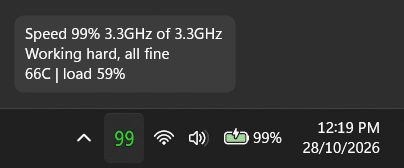
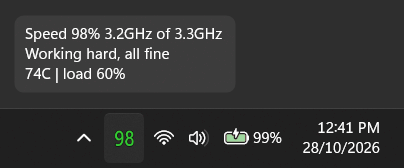
Screenshots: retake the green picture (real loaded reading, 98% / 74C)
Replaces the capture that read 66C. Menu, hero and listing images follow.
No exe change: dist/HeatTray.exe is the same file as v2.2.

Claude-Session: https://claude.ai/code/session_01SGbDh1JUVSHN9EJvkUQFny

diff --git a/store/make-hero.py b/store/make-hero.py
@@ -119,7 +119,7 @@ def tile(img, cx, cy, size):
 
 
 READ = {   # the tooltips the app prints (HeatTray.cs, Render/SlowLines), as captured on 28 Oct 2026
-    "g": ("99", GREEN, ["Speed 99% 3.3GHz of 3.3GHz", "Working hard, all fine", "66C | load 59%"]),
+    "g": ("98", GREEN, ["Speed 98% 3.2GHz of 3.3GHz", "Working hard, all fine", "74C | load 60%"]),
     "o": ("59", ORANGE, ["Speed 59% 1.9GHz of 3.3GHz", "Slower, not hot (64C)", "Plug in, check power mode", "Like a Core i5-2500K from 2011"]),
     "h": ("47", ORANGE, ["Speed 47% 1.5GHz of 3.3GHz", "Slower, and hot (99C)", "Clear vents, lift laptop", "Like a Core i5-2500K from 2011"]),
     "r": ("27", RED, ["Speed 27% 0.9GHz of 3.3GHz", "Far slower, not hot (59C)", "Plug in, check power mode", "Like a Core 2 Duo E6600 from 2006"]),
